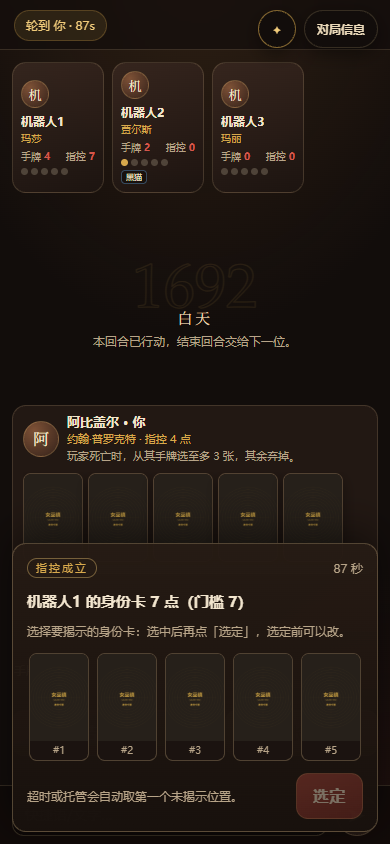
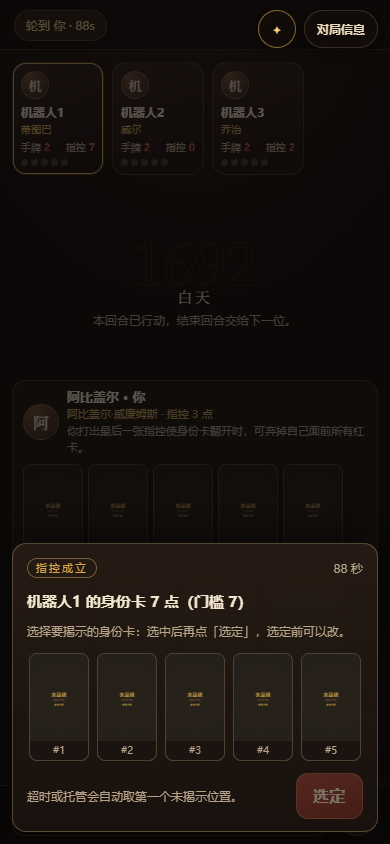
fix(web): 揭示抽屉补自己的压暗层、目标描边与固定卡宽（#65）
#65 的 Decisions 里定过三处视觉，上一版漏了前两处、第三处只做了一半：

- 压暗层单独一层 `#revealVeil`（`.reveal-veil`，`brightness(.6) saturate(.8)`），
  不复用传染的 veil/seal/swap —— 那是 #62 写死的硬约束。
- 目标座位在抽屉打开期间挂 `.reveal-target`（金色内描边），关掉即清；
  这样「要翻的是谁面前的牌」在压暗后仍然看得出来。
- 位置卡改 flex、固定 60px 居中。此前复用传染的 `auto-fit` 网格，12 人局只有
  3 张卡时会被撑到 123px（#67 实测），和 60px 的牌背比例对不上。

验证：apps/web 207/207（新增 2 条断言核压暗值、描边类与 `flex: 0 0 60px`）；
390×844 真机重拍三张——未选、选中 #1、已提交等待，桌面确实被压暗、机器人1 座位带金边、
位置卡 60px 宽、抽屉 top 543 / bottom 832 / 宽 366、`bodyScroll=false`。
实拍覆盖 `docs/acceptance/shots/reveal-drawer-{chooser,picked,submitted}.png`。

diff --git a/apps/web/app.js b/apps/web/app.js
@@ -976,11 +976,20 @@ function renderPower() {
  * 两步选定——先点位置、再点「选定」；`canDecline` 时露出「放弃」；已提交与旁观走等待槽位。
  * 时钟读回合剩余（`S.private.turnDeadline`）：揭示挂在当前回合上，不另起 20 秒。
  */
+/** 压暗层与目标座位描边：只在抽屉开着时挂，关掉时连类一起清干净。 */
+function setRevealStage(open, targetId = null) {
+  $("revealVeil")?.classList.toggle("on", open === true);
+  for (const el of document.querySelectorAll("#opponents [data-seat]")) {
+    const on = open === true && targetId !== null && Number(el.dataset.seat) === targetId;
+    el.classList.toggle("reveal-target", on);
+  }
+}
 function renderRevealDrawer() {
   const bar = $("revealDrawer");
   // 传染阶段独占「要你选点什么」的位置：两条抽屉同时出现会让人不知道该点哪一个。
   if (S.projection?.phase === "conspiracy") {
     setDrawerOpen(bar, false);
+    setRevealStage(false);
     S.revealPick = null;
     return;
   }
@@ -989,6 +998,7 @@ function renderRevealDrawer() {
     const wait = revealWaitModel(S.revealWait, { nameOf: seatName });
     if (!wait) {
       setDrawerOpen(bar, false);
+      setRevealStage(false);
       S.revealPick = null;
       return;
     }
@@ -1006,6 +1016,7 @@ function renderRevealDrawer() {
       submitDisabled: true,
     });
     setDrawerOpen(bar, true);
+    setRevealStage(true, null);
     updateRevealClock();
     return;
   }
@@ -1047,6 +1058,7 @@ function renderRevealDrawer() {
     submitDisabled: !canSubmitReveal(view, picked),
   });
   setDrawerOpen(bar, true);
+  setRevealStage(true, view.targetId);
   updateRevealClock();
 }
 

diff --git a/apps/web/test/reveal-drawer.test.js b/apps/web/test/reveal-drawer.test.js
@@ -104,3 +104,23 @@ test("时钟读回合剩余，最后 5 秒才告警", () => {
   assert.match(body, /clockWarn: left !== null && left <= 5000/);
   assert.match(body, /left === null \? ""/, "没有回合时限就整块隐藏，别显示 0 秒");
 });
+
+test("压暗与目标描边是自己的层，不复用传染那套 veil", () => {
+  const css = readFileSync(join(web, "styles.css"), "utf8");
+  const html = readFileSync(join(web, "index.html"), "utf8");
+  assert.ok(html.includes('id="revealVeil"'), "index.html 要有自己的压暗层");
+  assert.ok(/\.reveal-veil\s*\{/.test(css), "压暗层要有着色与 backdrop-filter");
+  assert.match(css, /backdrop-filter: brightness\(\.6\) saturate\(\.8\)/, "#65 定稿的压暗值");
+  assert.ok(/\.reveal-target\s*\{/.test(css), "目标座位要有金色描边类");
+  const body = bodyOf(app, "function setRevealStage(");
+  assert.match(body, /revealVeil/, "压暗层由 setRevealStage 开关");
+  assert.match(body, /reveal-target/, "描边也在这里挂");
+  assert.match(bodyOf(app, "function renderRevealDrawer()"), /setRevealStage\(true, view\.targetId\)/, "选择者打开时把目标座位点亮");
+});
+
+test("12 人 3 张卡不再被撑大：固定 60px 居中", () => {
+  const css = readFileSync(join(web, "styles.css"), "utf8");
+  assert.match(css, /#revealDrawer \.conspiracy-cards \{[^}]*display: flex/, "位置卡改 flex");
+  assert.match(css, /#revealDrawer \.conspiracy-card \{[^}]*flex: 0 0 60px/, "固定 60px，不随容器拉伸");
+  assert.ok(!/#revealDrawer \.conspiracy-cards \{[^}]*auto-fit/.test(css), "不能再留 auto-fit");
+});

diff --git a/apps/web/styles.css b/apps/web/styles.css
@@ -891,3 +891,26 @@ html[data-level="off"] .conspiracy-seal,
 html[data-level="off"] .conspiracy-swap-card,
 html[data-level="off"] .trial-card.conspiracy-peek .trial-inner { transition: none !important; animation: none !important; }
 html[data-level="off"] .conspiracy-swap { display: none; }
+
+/* 挂起揭示自己的压暗层：传染那套 veil/seal/swap 不复用（#62 硬约束），这里只压暗、留目标座位。
+   目标座位由 app.js 加 .reveal-target，金边提示「要翻的是这个人面前的牌」。 */
+.reveal-veil {
+  position: fixed;
+  inset: 0;
+  z-index: 54;
+  pointer-events: none;
+  background: rgba(12, 8, 7, .42);
+  backdrop-filter: brightness(.6) saturate(.8);
+  -webkit-backdrop-filter: brightness(.6) saturate(.8);
+  opacity: 0;
+  transition: opacity .26s ease;
+}
+.reveal-veil.on { opacity: 1; }
+.reveal-target { box-shadow: inset 0 0 0 1px var(--gold); }
+html[data-level="reduced"] .reveal-veil { transition-duration: .18s; }
+html[data-level="off"] .reveal-veil { transition: none; }
+
+/* #67 实测：12 人局只有 3 张位置卡时，auto-fit 会把卡撑到 123px，#65 定稿改成固定 60px 居中。
+   只作用于挂起揭示的抽屉，传染那边不动。 */
+#revealDrawer .conspiracy-cards { display: flex; flex-wrap: wrap; justify-content: center; gap: 8px; }
+#revealDrawer .conspiracy-card { flex: 0 0 60px; }

diff --git a/apps/web/index.html b/apps/web/index.html
@@ -102,7 +102,9 @@
         <button id="cancelTarget" class="btn tiny ghost">取消</button>
       </div>
 
-      <!-- 挂起揭示：与传染共用同一套底部抽屉（类名与槽位同源，见 drawer-shell.js），三种起因一条 UI。 -->
+      <!-- 挂起揭示：与传染共用同一套底部抽屉（类名与槽位同源，见 drawer-shell.js），三种起因一条 UI。
+           压暗自己一层，不复用传染的 veil/seal/swap（#62 的硬约束）。 -->
+      <div id="revealVeil" class="reveal-veil" aria-hidden="true"></div>
       <div id="revealDrawer" class="conspiracy-bar" role="dialog" aria-modal="false" aria-labelledby="revealTitle" data-slot-root="drawer" hidden>
         <div class="conspiracy-head" data-slot="head">
           <span class="conspiracy-kicker" data-slot="kicker"></span>
